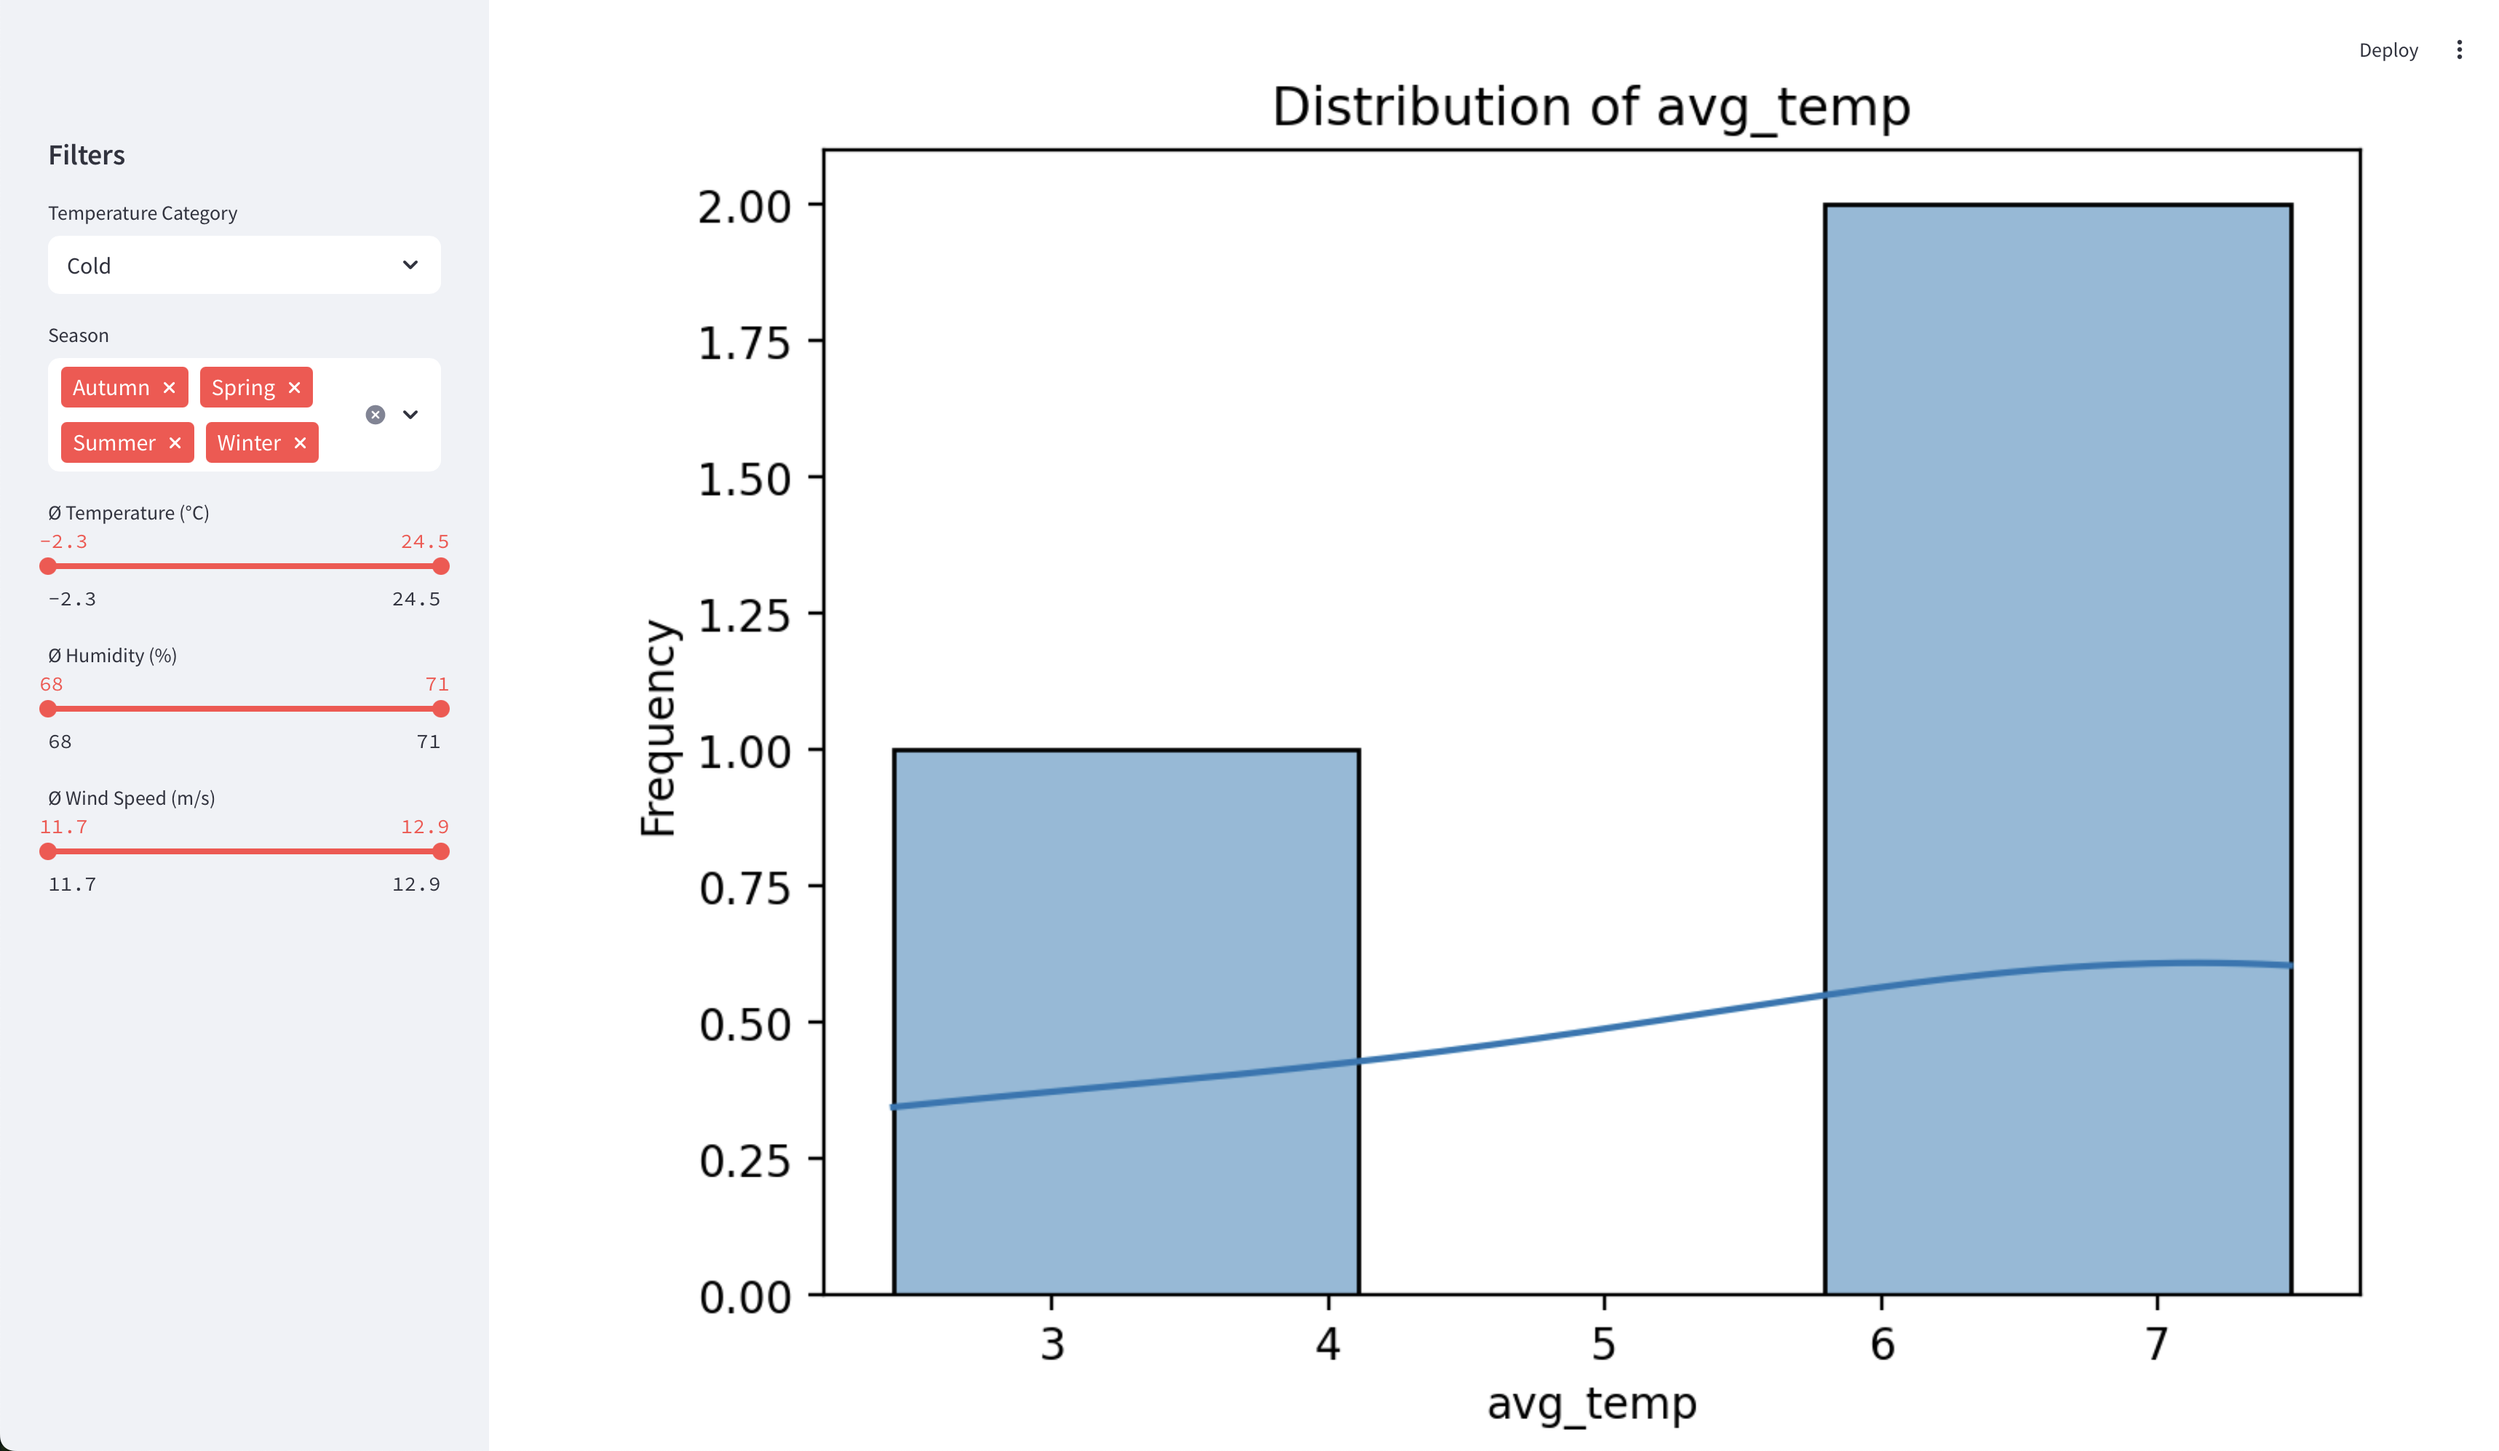
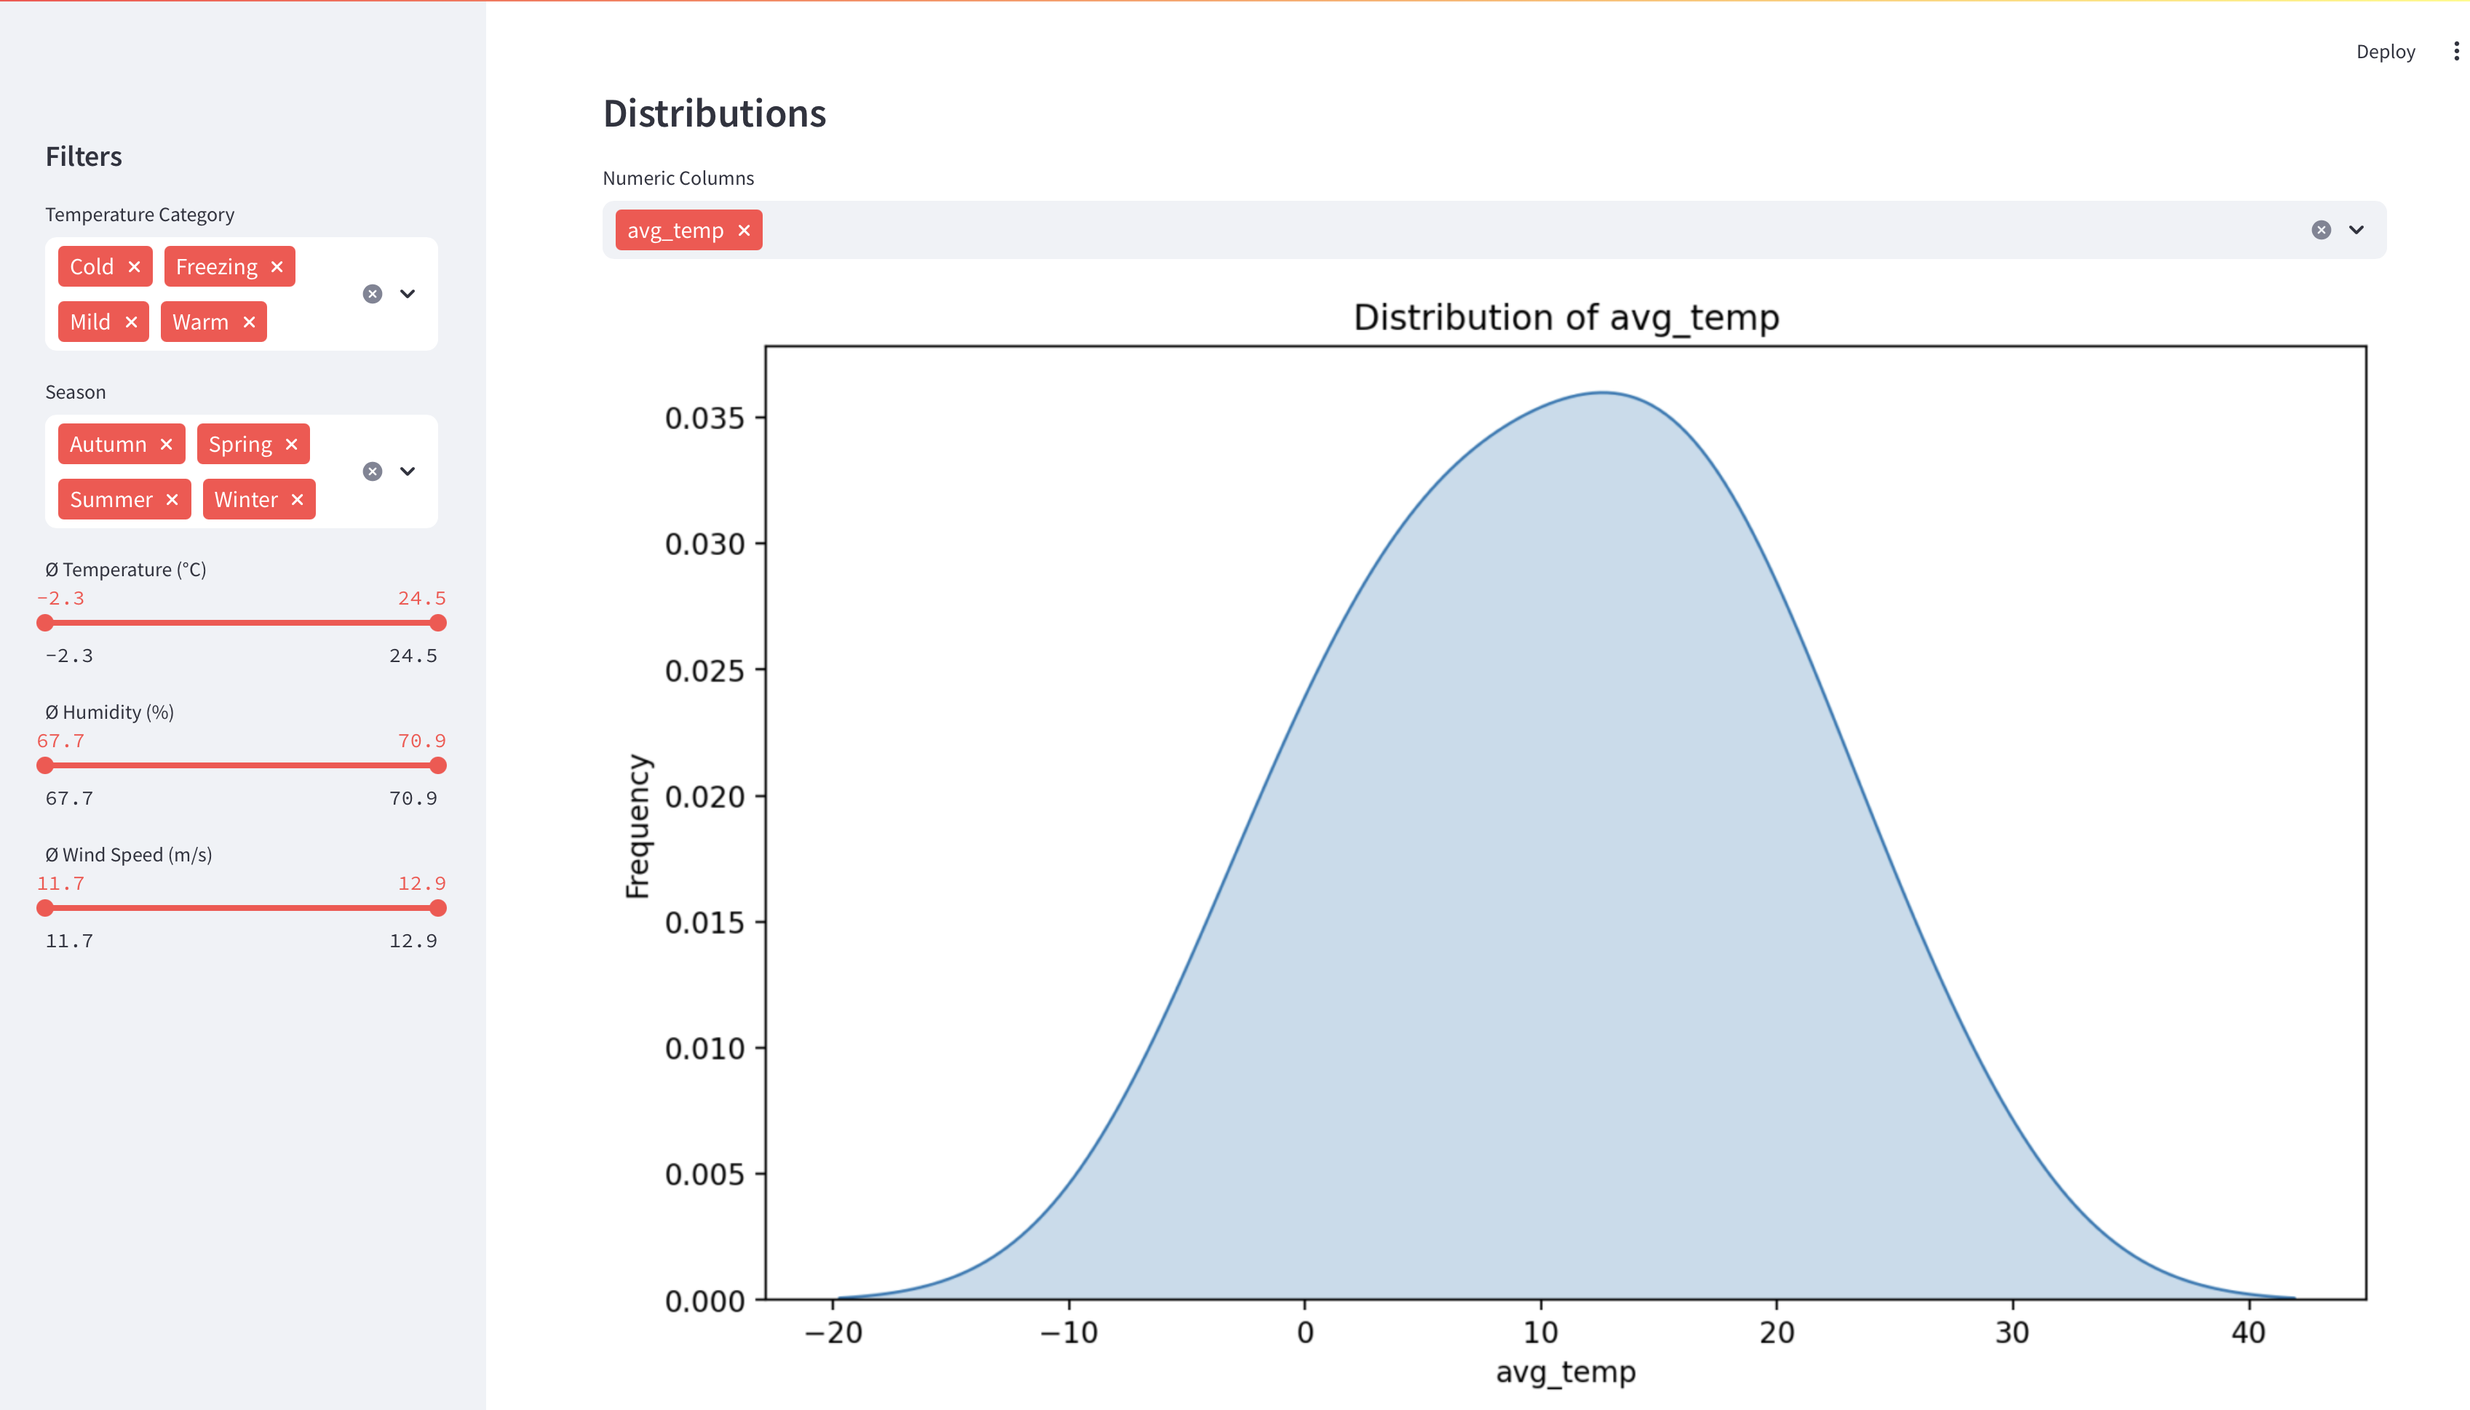
Enhance README and app.py with improved UI components and new visualizations

diff --git a/4_user_interface/src/dashboard/app.py b/4_user_interface/src/dashboard/app.py
@@ -6,29 +6,35 @@ import matplotlib.pyplot as plt
 import pandas as pd
 import seaborn as sns
 import streamlit as st
-# new UI Package
-from st_aggrid import AgGrid, GridOptionsBuilder
 
+#UI Components from streamlit
+from st_aggrid import AgGrid, GridOptionsBuilder
+from streamlit_echarts import st_echarts
+
+# -----------------------------------------------------------------------------
+# Streamlit-Page-Config
+# -----------------------------------------------------------------------------
 st.set_page_config(
     page_title="Gold Layer Weather Dashboard",
     page_icon="🌟",
     layout="wide",
 )
 
-# get the given key from the environment or use default value
+# -----------------------------------------------------------------------------
+# Helper: ENV-Variablen lesen
+# -----------------------------------------------------------------------------
 def get_env_default(key: str, default_val: str) -> str:
     val = os.environ.get(key)
-    if val is None or val == "":
-        return default_val
-    return val
+    return val if val else default_val
 
+# MinIO-Konfiguration
 MINIO_ENDPOINT   = get_env_default("MINIO_ENDPOINT", "http://localhost:9000")
 MINIO_ACCESS_KEY = get_env_default("MINIO_ACCESS_KEY", "admin")
 MINIO_SECRET_KEY = get_env_default("MINIO_SECRET_KEY", "password")
 BUCKET_NAME      = get_env_default("BUCKET_NAME", "weather-data")
 GOLD_FILE_NAME   = get_env_default("GOLD_FILE_NAME", "gold/weather_aggregated.parquet")
 
-# Initialize MinIO Client
+# MinIO-Client
 s3 = boto3.client(
     "s3",
     endpoint_url=MINIO_ENDPOINT,
@@ -36,7 +42,9 @@ s3 = boto3.client(
     aws_secret_access_key=MINIO_SECRET_KEY,
 )
 
-# Load Data from MinIO
+# -----------------------------------------------------------------------------
+# Daten laden & cachen
+# -----------------------------------------------------------------------------
 @st.cache_data(ttl="10m", show_spinner="📦 Lade Daten …")
 def load_data() -> pd.DataFrame:
     obj = s3.get_object(Bucket=BUCKET_NAME, Key=GOLD_FILE_NAME)
@@ -56,41 +64,58 @@ def load_data() -> pd.DataFrame:
 
 df = load_data()
 
-# Streamlit App UI
+# -----------------------------------------------------------------------------
+# Sidebar-Filter
+# -----------------------------------------------------------------------------
 st.title("🌟 Gold Layer Weather Data Dashboard")
 st.sidebar.header("Filters")
 
-selected_category = st.sidebar.selectbox(
-    "Temperature Category", df["temperature_category"].unique()
+# --- Temperature Category (MULTI-SELECT) ------------------------------------
+all_cats = sorted(df["temperature_category"].dropna().unique())
+sel_cats = st.sidebar.multiselect(
+    "Temperature Category",
+    options=all_cats,
+    default=all_cats,          # ⇒ standardmäßig alles gewählt
 )
 
+# --- Season ------------------------------------------------------------------
 if "season" in df.columns:
     seasons = st.sidebar.multiselect(
-        "Season", sorted(df["season"].unique()), default=list(df["season"].unique())
+        "Season",
+        sorted(df["season"].unique()),
+        default=list(df["season"].unique()),
     )
 else:
     seasons = []
 
+# --- Date Range --------------------------------------------------------------
 if "date" in df.columns:
     dmin, dmax = df["date"].min().date(), df["date"].max().date()
-    date_range = st.sidebar.date_input("Date Range", (dmin, dmax), min_value=dmin, max_value=dmax)
+    date_range = st.sidebar.date_input(
+        "Date Range", (dmin, dmax), min_value=dmin, max_value=dmax
+    )
 else:
     date_range = None
 
-
+# --- Numeric Slider Helper ---------------------------------------------------
 def num_slider(col: str, label: str, step: float, fmt: str):
     if col not in df.columns:
         return None
     cmin, cmax = float(df[col].min()), float(df[col].max())
     return st.sidebar.slider(label, cmin, cmax, (cmin, cmax), step=step, format=fmt)
 
-
 temp_range  = num_slider("avg_temp",       "Ø Temperature (°C)", 0.1, "%0.1f")
-hum_range   = num_slider("avg_humidity",   "Ø Humidity (%)",     1.0, "%0.0f")
+hum_range   = num_slider("avg_humidity",   "Ø Humidity (%)",     0.1, "%0.1f")
 wind_range  = num_slider("avg_wind_speed", "Ø Wind Speed (m/s)", 0.1, "%0.1f")
 
-# Filter Data
-filtered_df = df[df["temperature_category"] == selected_category]
+# -----------------------------------------------------------------------------
+# Daten filtern
+# -----------------------------------------------------------------------------
+filtered_df = df.copy()
+
+# Temp-Category: nur filtern, wenn nicht alle abgewählt
+if sel_cats:
+    filtered_df = filtered_df[filtered_df["temperature_category"].isin(sel_cats)]
 
 if seasons:
     filtered_df = filtered_df[filtered_df["season"].isin(seasons)]
@@ -103,7 +128,9 @@ if hum_range:
 if wind_range:
     filtered_df = filtered_df[filtered_df["avg_wind_speed"].between(*wind_range)]
 
-# KPI metrics
+# -----------------------------------------------------------------------------
+# KPI-Metrics
+# -----------------------------------------------------------------------------
 st.subheader("Key Metrics")
 c1, c2, c3, c4 = st.columns(4)
 
@@ -115,22 +142,30 @@ if "avg_humidity" in filtered_df.columns:
 if "avg_wind_speed" in filtered_df.columns:
     c4.metric("Ø Wind (m/s)", f"{filtered_df['avg_wind_speed'].mean():.1f}")
 
-#datatable AG-Grid
+# -----------------------------------------------------------------------------
+# Datatable via AG-Grid
+# -----------------------------------------------------------------------------
 st.subheader("Filtered Data")
 gob = GridOptionsBuilder.from_dataframe(filtered_df)
 gob.configure_pagination(paginationAutoPageSize=True)
 AgGrid(filtered_df, gridOptions=gob.build(), height=400, fit_columns_on_grid_load=True)
 
-#diagramms
+# -----------------------------------------------------------------------------
+# Distributions (Seaborn KDE)
+# -----------------------------------------------------------------------------
 st.subheader("Distributions")
 num_cols = [c for c in ["avg_temp", "avg_humidity", "avg_wind_speed"] if c in filtered_df.columns]
 chosen_cols = st.multiselect("Numeric Columns", num_cols, default=num_cols[:1])
+
 for col in chosen_cols:
-    fig, ax = plt.subplots()
-    sns.histplot(filtered_df[col], kde=True, ax=ax)
+    fig, ax = plt.subplots(figsize=(10, 6))
+    sns.kdeplot(filtered_df[col], fill=True, ax=ax)
     ax.set(title=f"Distribution of {col}", xlabel=col, ylabel="Frequency")
     st.pyplot(fig)
 
+# -----------------------------------------------------------------------------
+# Count by Season (Barplot)
+# -----------------------------------------------------------------------------
 if "season" in filtered_df.columns and not filtered_df.empty:
     st.subheader("Count by Season")
     season_cnt = (
@@ -138,11 +173,54 @@ if "season" in filtered_df.columns and not filtered_df.empty:
         .reset_index(name="count")
         .rename(columns={"index": "season"})
     )
-    fig2, ax2 = plt.subplots()
+    fig2, ax2 = plt.subplots(figsize=(10, 6))
     sns.barplot(data=season_cnt, x="season", y="count", palette="viridis", ax=ax2)
     ax2.set_xlabel("Season")
     ax2.set_ylabel("Count")
     st.pyplot(fig2)
 
-#footer
+# -----------------------------------------------------------------------------
+# 🚀 Radar-Chart – Seasonal Averages (Temp / Humidity / Wind)
+# -----------------------------------------------------------------------------
+if "season" in filtered_df.columns and not filtered_df.empty:
+    st.subheader("Seasonal Averages (Radar Chart)")
+
+    radar_df = (
+        filtered_df.groupby("season", as_index=False)
+        .agg(
+            avg_temp=("avg_temp", "mean"),
+            avg_humidity=("avg_humidity", "mean"),
+            avg_wind_speed=("avg_wind_speed", "mean"),
+        )
+        .round(2)
+    )
+
+    indicators = [
+        {"name": "Temp (°C)",    "max": 40},
+        {"name": "Humidity (%)", "max": 100},
+        {"name": "Wind (m/s)",   "max": 25},
+    ]
+
+    series_data = [
+        {
+            "value": [row["avg_temp"], row["avg_humidity"], row["avg_wind_speed"]],
+            "name": row["season"],
+        }
+        for _, row in radar_df.iterrows()
+    ]
+
+    option = {
+        "legend": {"data": radar_df["season"].tolist()},
+        "radar":  {"indicator": indicators, "radius": "70%"},
+        "series": [{
+            "type": "radar",
+            "data": series_data,
+            "areaStyle": {"opacity": 0.1},
+        }],
+    }
+    st_echarts(option, height="700px", width="100%")
+
+# -----------------------------------------------------------------------------
+# Footer
+# -----------------------------------------------------------------------------
 st.info("Data auto-refreshes on reload (cache TTL 10 min).")

diff --git a/4_user_interface/README.md b/4_user_interface/README.md
@@ -1,6 +1,6 @@
 # 🌟 Gold Layer Weather Dashboard
 
-A simple Streamlit application that visualises the aggregated *Gold‑Layer* weather data stored in MinIO.
+A lightweight Streamlit application that visualises the aggregated *Gold‑Layer* weather data stored in MinIO.
 
 ---
 
@@ -11,12 +11,12 @@ A simple Streamlit application that visualises the aggregated *Gold‑Layer* wea
 | **1. Run `3_pipeline` first** | The ETL pipeline writes the *gold* Parquet file that this dashboard immediately reads from the shared volume / MinIO bucket. |
 | **3. MinIO running & seeded** | Needs the bucket **`weather-data`** and object **`gold/weather_aggregated.parquet`**.                                        |
 
-> **Tip :** If you used the project’s `docker-compose` everything is already mounted – you only have to spin up the services in the right order (`3_pipeline` → `streamlit`).
+> **Tip:** Use the provided `docker-compose` then everything is already mounted – you only have to spin up the services in the right order (`3_pipeline` → `4_user_interface`).
 
 
 ## 🐳Running with Docker Compose
 
-The repository already ships a `docker-compose.yml` that starts MinIO and the Streamlit app. **Important:** make sure `3_pipeline` has populated the `weather-data` bucket first!
+The repository already ships a `compose.yaml` that starts MinIO and the Streamlit app. **Important:** make sure `3_pipeline` has populated the `weather-data` bucket first!
 
 ```bash
 # Build & start all services
@@ -45,9 +45,11 @@ If you use Docker compose these are already provided via `.env`.  Override them 
 
 ![Dashboard overview](docs/sc1.png)
 
-![Filter sidebar](docs/sc2.png)
+![Distribution of selected values](docs/sc2.png)
 
-![Plots tab](docs/sc3.png)
+![Count number of selected seasons](docs/sc3.png)
+
+![Radar chart of selected seasons](docs/sc4.png)
 
 ---
 
